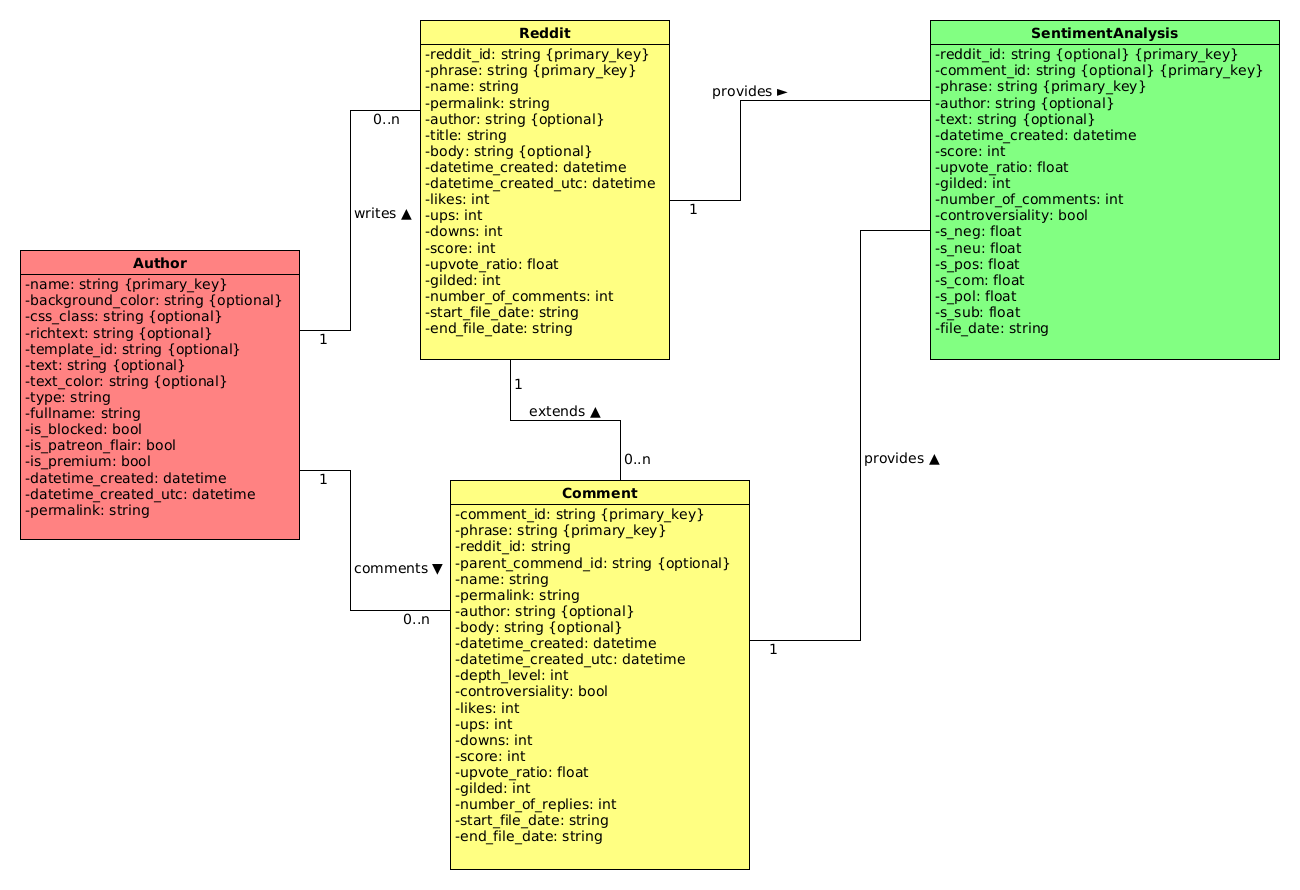
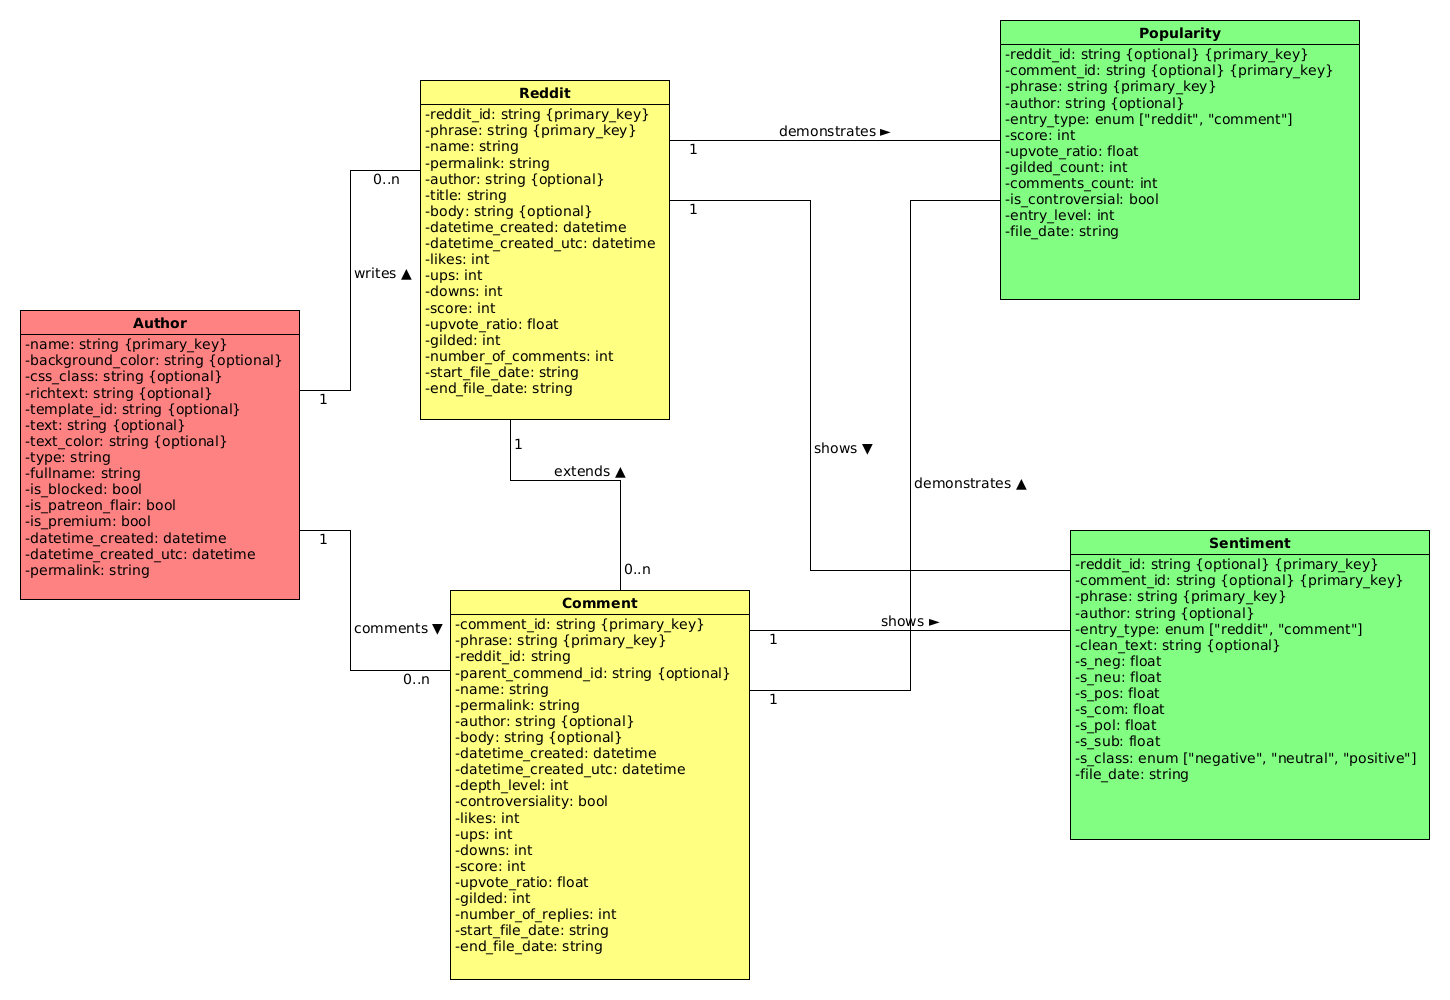
etl script and readme update

diff --git a/run_etl.py b/run_etl.py
@@ -3,8 +3,8 @@ import datetime as dt
 import logging
 
 import util
-from model import AppConfig, ETLParams
-from service import SentimentService
+from model import AppConfig, EETLScript, ETLParams
+from service import SentimentService, PopularityService
 
 
 def get_config() -> AppConfig:
@@ -14,7 +14,7 @@ def get_config() -> AppConfig:
 def parse_args(defaults: AppConfig) -> argparse.Namespace:
     parser = argparse.ArgumentParser(description="Reddits ETL Python 3.11 application.")
 
-    parser.add_argument("script", type=str, choices=["sentiment", "vectorization"],
+    parser.add_argument("script", type=str, choices=list(map(lambda v: v.lower(), EETLScript.__members__)),
                         help="ETL script to run")
     parser.add_argument("phrase", type=str,
                         help="phrase which contain reddits to do the ETL with")
@@ -69,9 +69,34 @@ def run_sentiment(args: argparse.Namespace, logger: logging.Logger) -> None:
     sentiment_service.run_etl(**etl_params.model_dump())
 
 
-def run_popularity(args: argparse.Namespace) -> None:
+def run_popularity(args: argparse.Namespace, logger: logging.Logger) -> None:
     """ Executes popularity script """
-    raise NotImplementedError("The popularity script has not been implemented yet.")
+    etl_params = ETLParams.from_argparse_namespace(args)
+
+    # Show parameters
+    print("Reddits phrase:", etl_params.phrase)
+    print("ETL script name:", etl_params.script_name)
+    print("Batch size:", etl_params.batch_size)
+    print("Fill in for missing dates:", etl_params.is_filled_missing_dates)
+    print("Start date of searching missing dates:", etl_params.start_date)
+    print("File date interval:", etl_params.date_interval)
+    print("Is filled in until previous date:", etl_params.is_until_previous_day)
+    print("Use multiprocessing:", etl_params.is_multiprocessing_used)
+    print("Number of processes:", etl_params.num_processes)
+    print()
+
+    logger.info(f"Reddits phrase: {etl_params.phrase}")
+    logger.info(f"ETL script name: {etl_params.script_name}")
+    logger.info(f"Batch size: {etl_params.batch_size}")
+    logger.info(f"Fill in for missing dates: {etl_params.is_filled_missing_dates}")
+    logger.info(f"Start date of searching missing dates: {etl_params.start_date}")
+    logger.info(f"File date interval: {etl_params.date_interval}")
+    logger.info(f"Is filled in until previous date: {etl_params.is_until_previous_day}")
+    logger.info(f"Use multiprocessing: {etl_params.is_multiprocessing_used}")
+    logger.info(f"Number of processes: {etl_params.num_processes}")
+
+    popularity_service = PopularityService(logger=logger)
+    popularity_service.run_etl(**etl_params.model_dump())
 
 
 def run_vectorization(args: argparse.Namespace) -> None:

diff --git a/model/__init__.py b/model/__init__.py
@@ -1,6 +1,7 @@
 from model.config.app_config import AppConfig
 from model.config.supabase_connection_config import SupabaseConnectionConfig
 
+from model.enum.e_etl_script import EETLScript
 from model.enum.e_file_date_type import EFileDateType
 from model.enum.e_entry_type import EEntryType
 from model.enum.e_sentiment_class import ESentimentClass

diff --git a/model/enum/e_etl_script.py b/model/enum/e_etl_script.py
@@ -1,0 +1,7 @@
+from enum import Enum
+
+
+class EETLScript(Enum):
+    SENTIMENT = "sentiment"
+    POPULARITY = "popularity"
+    VECTORIZATION = "vectorization"

diff --git a/README.md b/README.md
@@ -67,12 +67,12 @@ Running the help command: `python run_etl.py -h` yields the following:
 ---- Reddits ETL app ----
 
 usage: run_etl.py [-h] [-b BATCH_SIZE] [--skip_missing_dates] [--start_date START_DATE] [--interval {h,d,m,y}] [--until_today] [--no_multiprocessing] [--num_processes NUM_PROCESSES]
-                  {sentiment,vectorization} phrase
+                  {sentiment,popularity,vectorization} phrase
 
 Reddits ETL Python 3.11 application.
 
 positional arguments:
-  {sentiment,vectorization}
+  {sentiment,popularity,vectorization}
                         ETL script to run
   phrase                phrase which contain reddits to do the ETL with
 
@@ -82,7 +82,7 @@ options:
                         size of inserted batch of reddits into database, default: 10000
   --skip_missing_dates  flag whether not to add blank records for periods without any data, default: False
   --start_date START_DATE
-                        start date of missing file date gaps detection, default: 2020-01-01
+                        start date of missing file dates detection, default: 2020-01-01
   --interval {h,d,m,y}  period between every file date if for missing dates blank records are added, default: d
   --until_today         flag whether to insert blank records until the current datetime, ie. moment of script launch (if no data for present date), default: False
   --no_multiprocessing  flag whether not to use multiprocessing while processing entries, default: False
@@ -92,7 +92,7 @@ options:
 ```
 
 ### Parameters overview
-1. **script** -- **_required_** -- etl script to run. Currently, **"sentiment"** is only available. The _"vectorization"_ will be developed furtherly.  
+1. **script** -- **_required_** -- etl script to run. Currently, **"sentiment"** and **popularity** are only available. The _"vectorization"_ will be developed furtherly.  
 2. **phrase** -- **_required_** -- word or sentence fragment according to which the reddits should be ingested.
 3. **-b**, **--batch_size** -- _optional_ -- **10000** by default -- maximum number of entries inserted into database at once.
 4. **--skip_missing_dates** -- _optional_ -- **False** by default -- flag whether not to load blank records for file dates for which the data do not exist.
@@ -145,7 +145,7 @@ The illustration above shows the solution dataflow diagram. The dash-frame highl
 
 ## Data model
 ![Data model class diagram](/assets/images/reddits_data_model.png)
-The illustration above shows the data model diagram class. The **Author**, **Reddit** and **Comment** class instances are used during JSON files ingestion (insertion) as well as ETL processes (reading). The **Sentiment** class instances are used (currently) only during persistence of processed reddits and comments (insertion).
+The illustration above shows the data model diagram class. The **Author**, **Reddit** and **Comment** class instances are used during JSON files ingestion (insertion) as well as ETL processes (reading). The **Sentiment** and **Popularity** class instances are used (currently) only during persistence of processed reddits and comments (insertion).
 
 ## Detailed class diagrams
 ### Ingestion
